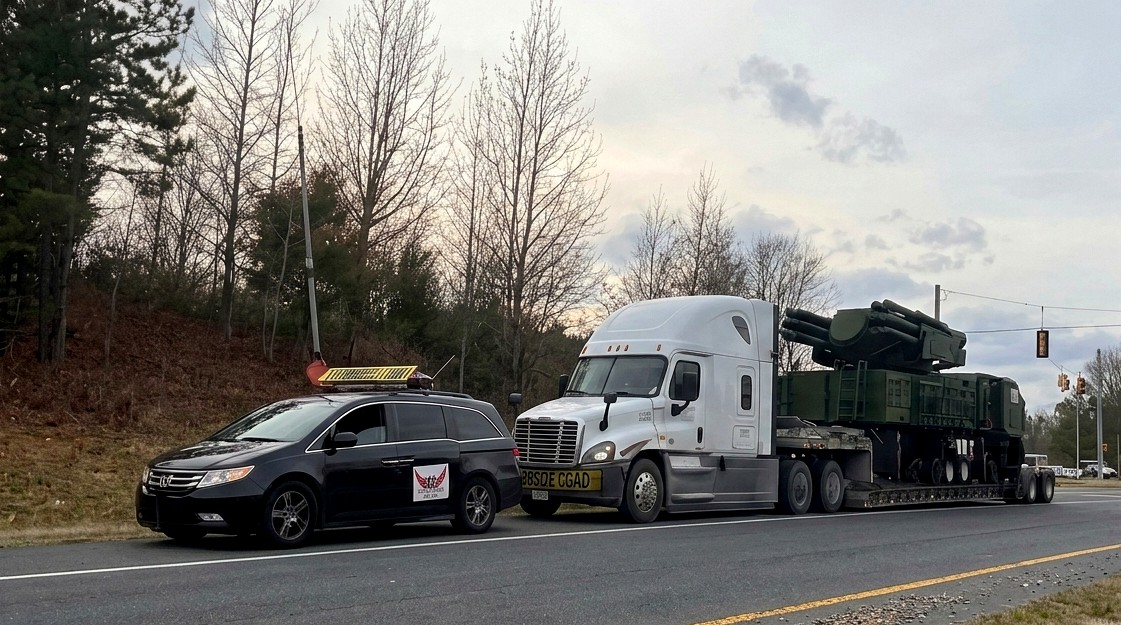
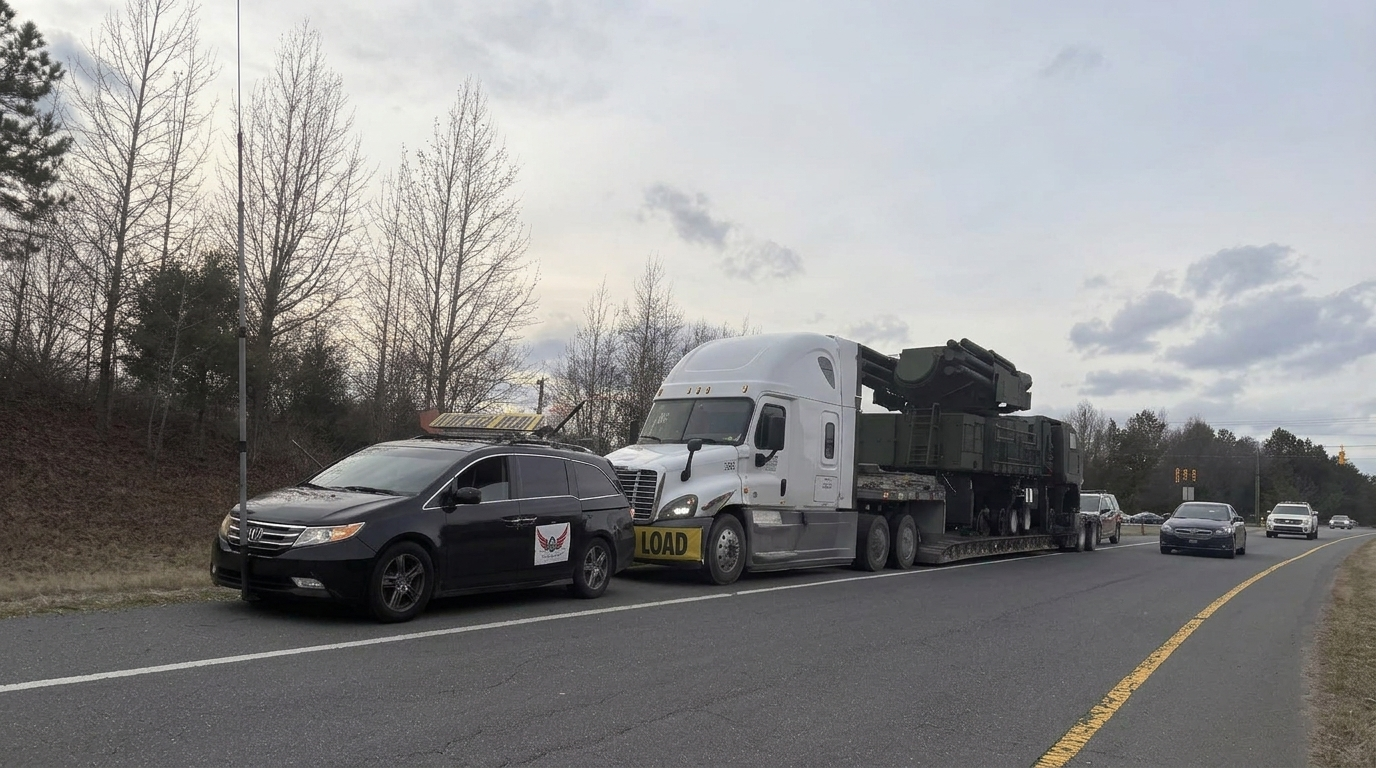
Add files via upload

diff --git a/style.css b/style.css
@@ -174,7 +174,7 @@ section {
 }
 
 .bg-deep {
-  background: var(--navy-950);
+  background: var(--navy-900);
 }
 
 .bg-deep h1,
@@ -291,7 +291,8 @@ section {
 }
 
 .btn-dark:hover {
-  background: #000;
+  background: var(--navy-950);
+  opacity: 0.85;
 }
 
 .btn-block {
@@ -308,7 +309,7 @@ section {
   position: sticky;
   top: 0;
   z-index: 999;
-  background: var(--navy-950);
+  background: var(--navy-900);
   border-bottom: 1px solid var(--line);
 }
 
@@ -445,7 +446,7 @@ section {
     inset: 0 0 0 auto;
     height: 100vh;
     width: min(320px, 82vw);
-    background: var(--navy-950);
+    background: var(--navy-900);
     border-left: 1px solid var(--line);
     flex-direction: column;
     align-items: flex-start;
@@ -1111,7 +1112,7 @@ section {
 
 /* ---------- Certifications ---------- */
 .cert-strip {
-  background: var(--navy-950);
+  background: var(--navy-900);
   border-top: 1px solid var(--paper-border);
   border-bottom: 1px solid var(--paper-border);
 }
@@ -1141,7 +1142,7 @@ section {
 }
 
 .cert-card {
-  background: var(--navy-900);
+  background: var(--navy-800);
   border: 1px solid var(--line);
   border-radius: var(--radius);
   padding: 22px 18px;
@@ -1351,7 +1352,7 @@ section {
 
 /* ---------- CTA band ---------- */
 .cta-band {
-  background: var(--navy-950);
+  background: var(--navy-900);
   color: var(--white);
   text-align: center;
   border-top: 1px solid var(--line);
@@ -1524,7 +1525,7 @@ section {
 
 /* ---------- Footer ---------- */
 .site-footer {
-  background: var(--navy-950);
+  background: var(--navy-900);
   color: var(--text-secondary);
   padding-top: 60px;
   border-top: 1px solid var(--line);
@@ -1738,7 +1739,7 @@ section {
 /* ---------- Page hero (interior pages) ---------- */
 .page-hero {
   position: relative;
-  background: var(--navy-950);
+  background: var(--navy-900);
   color: var(--white);
   padding: 60px 0 48px;
   border-bottom: 1px solid var(--line);

diff --git a/careers.html b/careers.html
@@ -104,7 +104,7 @@
           </ul>
         </div>
         <div class="split-media">
-          <div class="steps" style="background:var(--navy-900);border:1px solid var(--line);border-radius:var(--radius);padding:30px;">
+          <div class="steps" style="background:var(--white);border:1px solid var(--paper-border);border-radius:var(--radius);padding:30px;">
             <div class="step">
               <div class="num"></div>
               <div><h3>Apply Online</h3><p>Submit your info and certifications below.</p></div>
